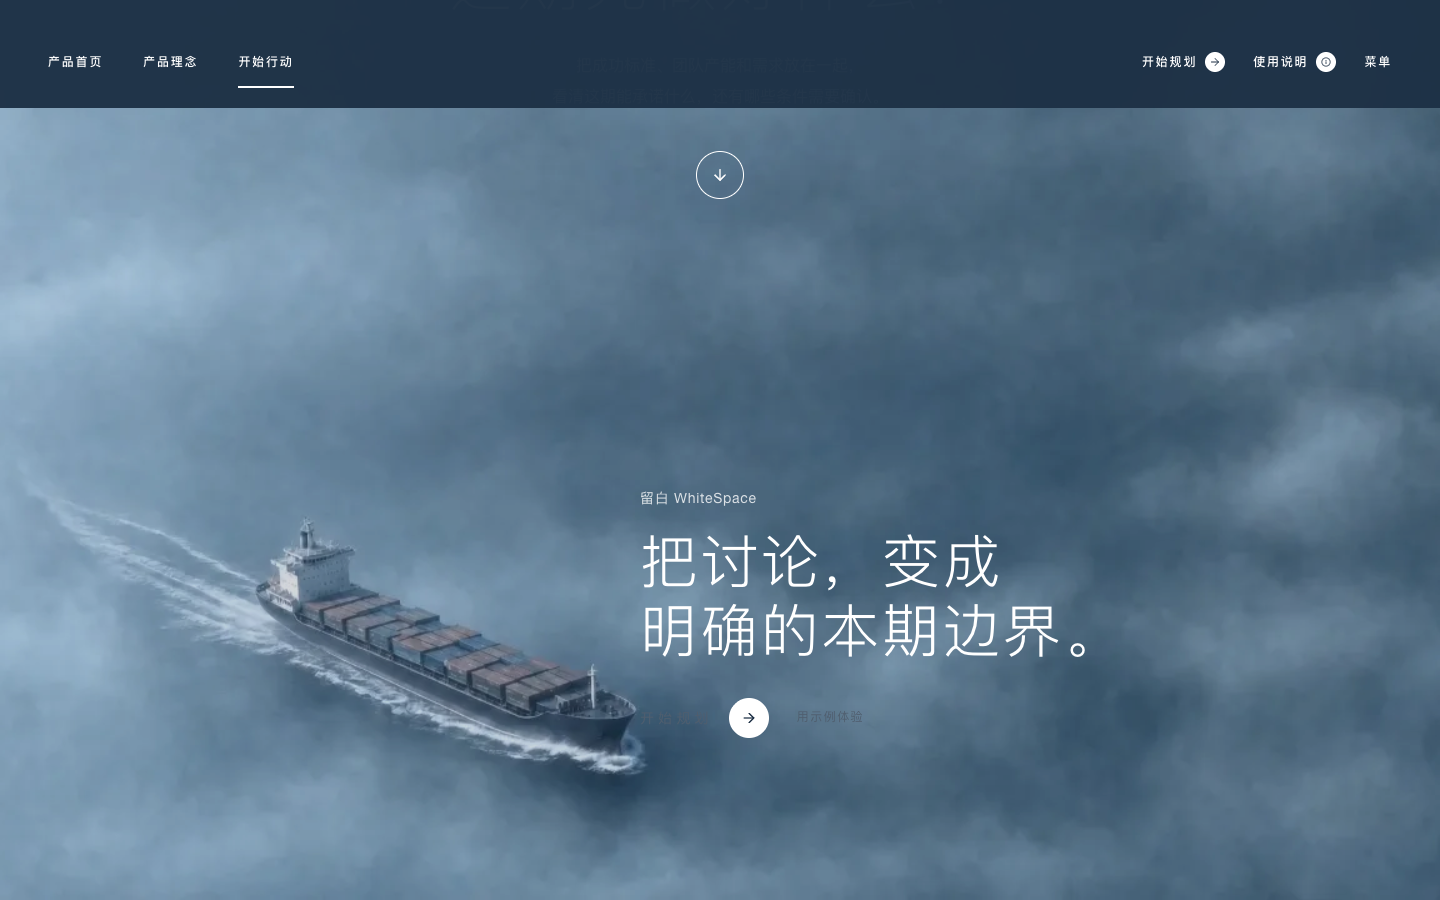
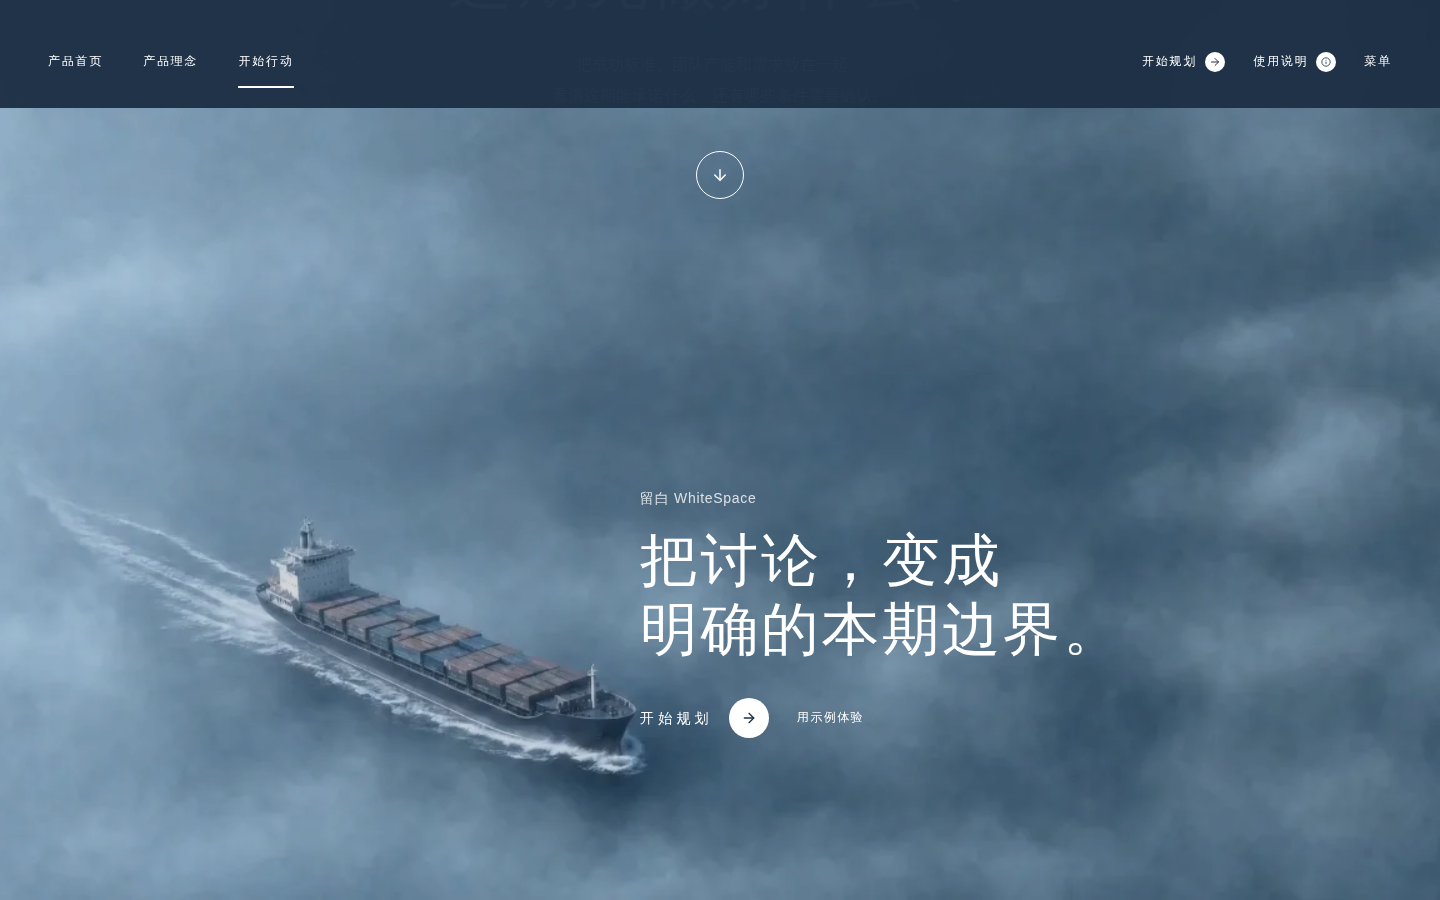
docs: record verified v1.3.0 deployment and screenshots [skip ci]

diff --git a/docs/release-v1.3.0.md b/docs/release-v1.3.0.md
@@ -21,13 +21,27 @@
 
 [在线体验](https://whitespace-junz11055-8124.vercel.app) · [性能与复测方法](home-performance.md) · [第三方媒体许可边界](third-party.md)
 
+导航与底部规划入口不再继承全局颜色渐变，背景切换瞬间的文字颜色由线上自动检查验证。
+
 ## 发布验证记录
 
-- 运行时代码：`d8ddb9c6dd4af14720a695914bb7d2a3b62263f2`。
-- Vercel生产部署：`dpl_GT47XKH1QMo93US97v8S4Pba6QZd`，两正式域名均已指向此版本。
-- [独立CI：291单元＋37浏览器](https://github.com/hexing-ai/whitespace/actions/runs/34241641963)
-- [线上首页性能与四档截图](https://github.com/hexing-ai/whitespace/actions/runs/34241948730)
-- [邀请码、匿名拒绝与限流](https://github.com/hexing-ai/whitespace/actions/runs/34241960070)
+- 运行时代码：`b2ab09dc6e990c305b543a415bc86c2cd5de5200`。
+- Vercel生产部署：`dpl_AGB9Y7Rw7z6WjpPSnbBtKz3XuMTC`，两正式域名均已指向此版本。
+- [独立CI：291单元＋37浏览器](https://github.com/hexing-ai/whitespace/actions/runs/34243407204)
+- [线上首页性能与四档截图](https://github.com/hexing-ai/whitespace/actions/runs/34243491839)
+- [邀请码、匿名拒绝与限流](https://github.com/hexing-ai/whitespace/actions/runs/34243502858)
 
 ![原山景首页](images/home.png)
 ![自然滚动后的海面行动区](images/home-action.png)
+
+## 最终线上实测
+
+GitHub Actions的Linux Chromium单次样本；普通10Mbps/20ms，受限1.6Mbps/150ms与4倍CPU节流。
+
+| 场景 | 首背景帧 | 完整预览 | 跳末尾响应 | 回首屏响应 | 静止RAF |
+| --- | ---: | ---: | ---: | ---: | ---: |
+| cold | 1195ms | 1222ms | 28ms | 12ms | 0 |
+| warm | 992ms | 994ms | 23ms | 32ms | 0 |
+| constrained | 2785ms | 3583ms | 80ms | 26ms | 0 |
+
+三档均通过；正文RAF间隔P95≤16.8ms，无页面错误、CLS为0。背景绘制间隔随测试滚轮输入节奏单独记录，不等于视频播放帧率。匿名拒绝、篡改会话拒绝、错误邀请码拒绝、有效邀请码、安全Cookie、防猜测限流、生成限流和旧部署阻断均通过；未发起付费模型生成。
